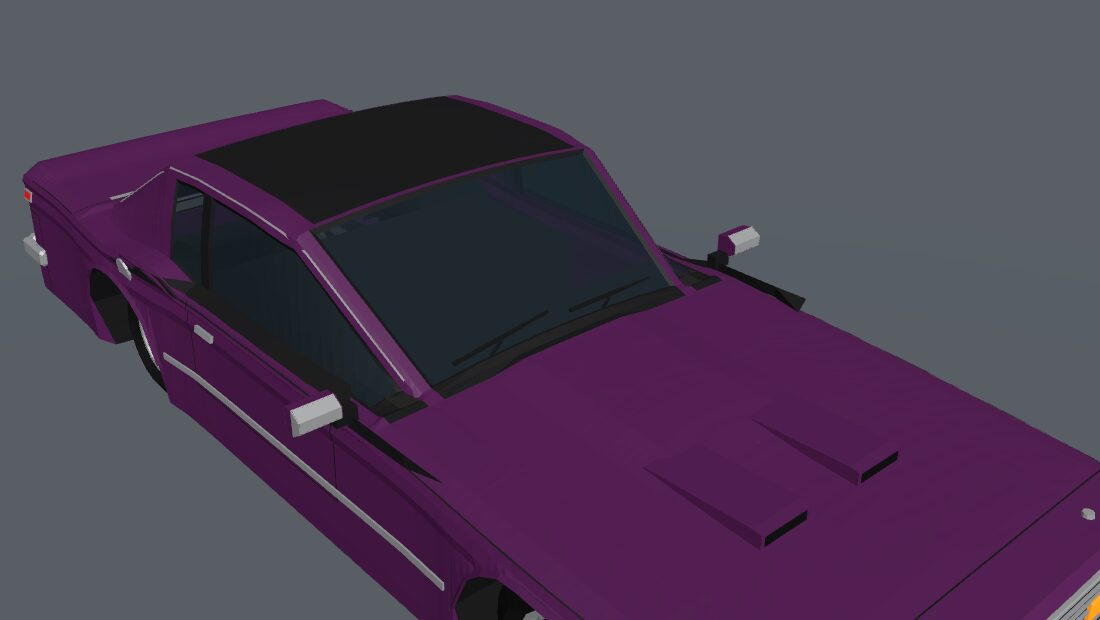
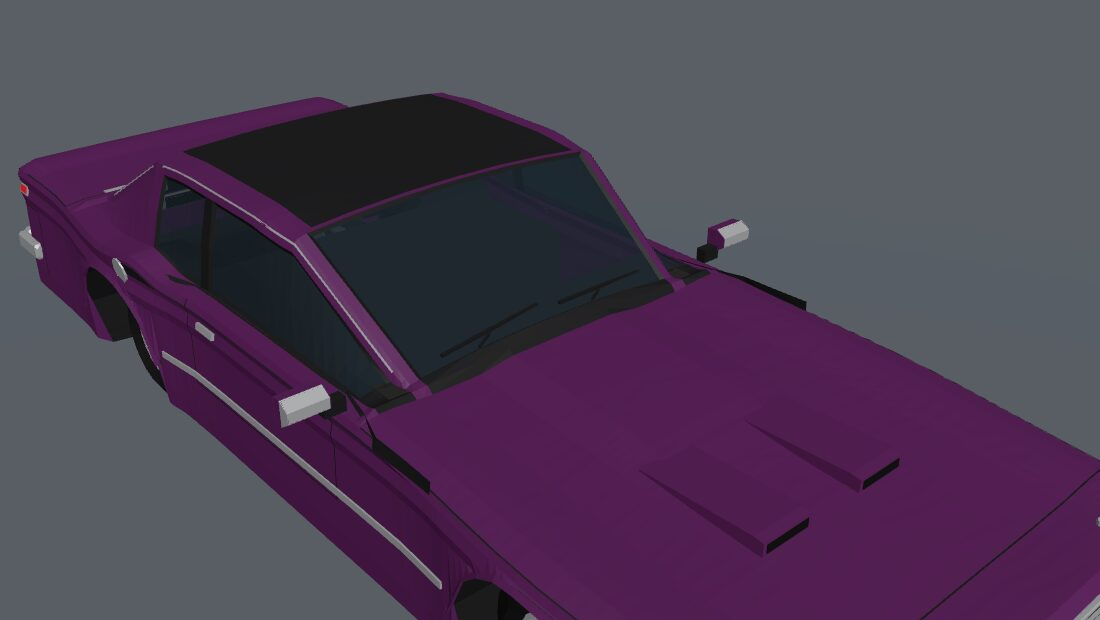
car-assets: muscle second-pass shots and notes
Claude-Session: https://claude.ai/code/session_01M1HYJf9awSZHegqL4CVdzM

diff --git a/docs/integration/car-shapes-muscle.md b/docs/integration/car-shapes-muscle.md
@@ -10,6 +10,23 @@
 - No shared generator code, car defs, lattices or sim code changed. A full `gen-car-mesh` run
   changes only these four cars' meshes.
 
+## Second pass (after the lead's "be bold" and "no brand cues" notes)
+- **Proportions:** ironside hood +7 cm longer (cabin −0.42 m), roof −3 cm, coke-bottle hips
+  (haunch 7 cm) with fender peaks either side of a sunken hood (front haunch 3.5 cm, hood valley
+  2.5 cm), full nose-down rake (0.8°), longer overhangs (+5 / +6 cm). Rampart roof chopped
+  (−7 cm), belt at the top of its range, rounder shoulders and deeper sill tuck, lower nose,
+  shorter overhangs (−6 / −8 cm), fender peaks. Bulwark +9 / +8 cm overhangs, lower roof,
+  square shoulders. Brigand +10 / +10 cm overhangs, taller formal roof, near-vertical sides
+  (tumblehome 12 cm), square shoulders, taller nose.
+- **Shaped lamps:** a local `face_poly` helper (convex outline extruded off the nose / tail
+  face) gives the rampart an angular headlamp (black housing whose inner end drops toward the
+  grille, projector, lens strip, running-light blade along the sloped lower edge, amber outer
+  segment) and one split wedge tail lamp per side.
+- **No maker cues (rule 9):** removed the vertical tri-bar tail lamps and tri-bar running
+  lights (rampart), the body-colour split-grille divider and the hockey-stick stripe
+  (ironside, now a straight body-side stripe). Badges are blank discs.
+- Generator requests sent to the lead (see below).
+
 ## Common to the group
 - **Higher belt** (`belt_dz` +0.05…+0.07): tall slab body sides under a short greenhouse, which
   is the muscle-car look. Before, the belt sat at ~0.78 m on 1.33 m roofs and the greenhouse was
@@ -31,27 +48,27 @@ about 5.2 × 1.95 × 1.33 m, 2.95 m wheelbase; long hood (~37 % of length), set-
 semi-fastback roof with wide sail panels into a short deck; no B-pillar (pillarless hardtop);
 windshield ~57°; tall slab sides with a hip kick over the rear wheel; full-width grille with
 quad round lamps behind a chrome blade; twin hood scoops; full-width tail lamps in a black
-panel; chrome drip rails, vinyl roof, stripe; 14–15" slotted mags on tall tyres.
+panel; chrome drip rails, vinyl roof, body-side stripe; 14–15" slotted mags on tall tyres.
 
 **Changed:** belt +6 cm; windshield 59°→57°, rear glass 63°→61°, roof +5 cm longer (now ~1.07 m
 vs 0.62 m); hardtop B-pillar (5 cm seal only); wider C-pillar sail (16 cm); stronger hips
 (haunch 3.5→5 cm, small front haunch); arch gap 7→6 cm; the flat "brick" cowl scoop replaced by
-twin forward-facing hood scoops on a power bulge; body-colour grille divider with a blank
-badge; chrome drip rail, chrome bullet mirrors; chrome-bezelled side markers; reverse lamps and
+twin forward-facing hood scoops on a power bulge; blank grille badge; chrome drip rail, chrome bullet mirrors; chrome-bezelled side markers; reverse lamps and
 a plate recess moved into the rear blade (the centre lamps no longer read as a letter).
 
 ## rampart_50 — 2010s muscle coupe
 **Reference (generic):** a 2010s American V8 muscle coupe: about 4.8 × 1.92 × 1.38 m, 2.72 m
 wheelbase; long hood with a power dome and heat extractors, chopped-looking greenhouse on a high
 belt, fastback roof into a short ducktail deck; wide rear hips; large trapezoid mesh grille with a
-centre emblem; slim headlamps with tri-bar running lights; splitter; fake scoop ahead of the rear
-wheel; tri-bar vertical tail lamps in a black panel, diffuser and quad tips; 19–20" wheels on
+centre emblem; slim angular headlamps with LED running lights; splitter; fake scoop ahead of the rear
+wheel; slim tail lamps in a black panel, diffuser and quad tips; 19–20" wheels on
 low-profile tyres; over-the-top stripes.
 
 **Changed:** belt +4 cm net (high belt, small side glass), roof arc 0.5 (smooth fastback),
 windshield 63°→62°, roof −3 cm; sharper shoulder crease; rounder nose and tail plan, softer tail
 (tail_round 0.18→0.24); tighter arch gap; black mirrors; grille frame now a trapezoid with a blank
-badge; tri-bar running lights on a black lamp face; quarter scoops; blank tail badge.
+badge; angular shaped headlamps and split wedge tail lamps (second pass); quarter scoops; blank tail
+badge.
 
 ## bulwark_400 — early-70s full-size four-door muscle sedan
 **Reference (generic):** an early-70s American full-size four-door with a high-output V8:
@@ -83,10 +100,10 @@ ribbed reflector panel, landau roof with chrome band, rubber side strip, chrome 
 ## Triangle counts (hero budget 22k, mid 7k)
 | car | full before | full now | mid before | mid now |
 |---|---|---|---|---|
-| ironside_440 | 19809 | 20667 | 5451 | 5687 |
-| rampart_50 | 19954 | 20390 | 5380 | 5230 |
-| bulwark_400 | 20579 | 21770 | 5621 | 5896 |
-| brigand_400 | 20986 | 21519 | 6042 | 5821 |
+| ironside_440 | 19809 | 21008 | 5451 | 5702 |
+| rampart_50 | 19954 | 19830 | 5380 | 5322 |
+| bulwark_400 | 20579 | 21539 | 5621 | 6027 |
+| brigand_400 | 20986 | 21793 | 6042 | 5922 |
 
 ## Checks
 `cargo fmt`, `cargo clippy -p car-assets --all-targets -- -D warnings`, `cargo test -p
@@ -100,7 +117,7 @@ cars ok), `gen-car-mesh --check`. Mod coverage: see below.
 ## Shots
 `docs/media/car-shapes/muscle/{before,after}/<car>_{front,rear,side,top,cabin,cabin_rear}.jpg`;
 per-car before (left) / after (right) sheets `docs/media/car-shapes/muscle/<car>_before_after.jpg`
-(rows: front 3/4, rear 3/4, side, cabin close-up) and all four side by side in
+(rows: front 3/4, rear 3/4, side, top) and all four side by side in
 `docs/media/car-shapes/muscle/before_after.jpg`.
 
 ## Known gaps
@@ -110,10 +127,14 @@ per-car before (left) / after (right) sheets `docs/media/car-shapes/muscle/<car>
   arch lip (generator loft; reduced by a smaller haunch / flare).
 - No opera windows on the brigand's C-pillar: side patches can't follow the greenhouse surface.
 
-## Generator requests
-None needed for this pass. Nice to have: a forward-leaning nose (negative `nose_rake_deg`) for
-modern shark-nose cars; a side patch that follows the greenhouse surface (opera windows,
-C-pillar badges).
+## Generator requests (sent to the lead 2026-10-27)
+1. Per-station side section: a waist pinch at the doors swelling over the arches in plan
+   (coke-bottle line), e.g. `waist_pinch_m`.
+2. Forward-leaning nose: negative `nose_rake_deg` (to about −15°) for modern shark noses.
+3. Shaped lamp lens primitive: polygon outline extruded off the face that follows the
+   plan-round corners, with an inner bezel inset.
+4. Side patch that follows the greenhouse surface (opera windows, C-pillar badges).
+5. Lower-body tumblehome (boat-tail section) as its own knob.
 
 ## Contract change requests
 None.
